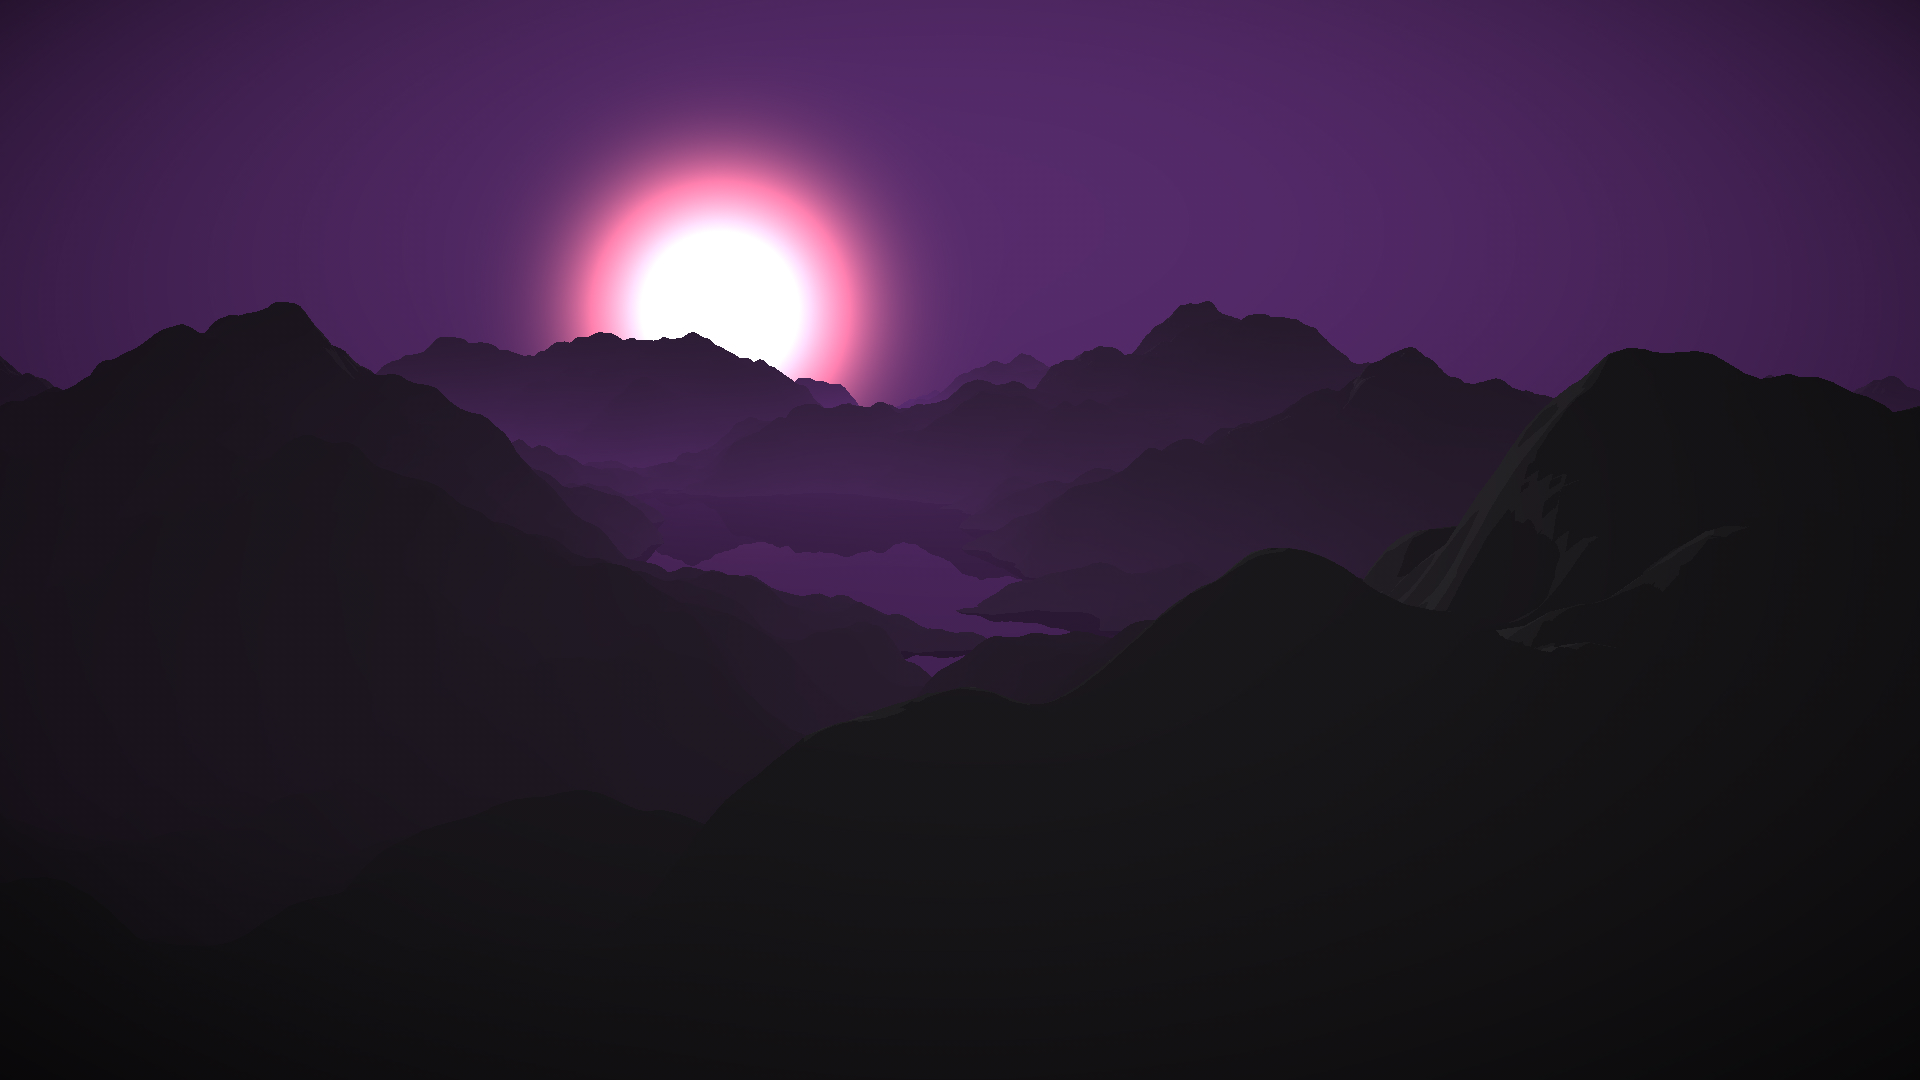
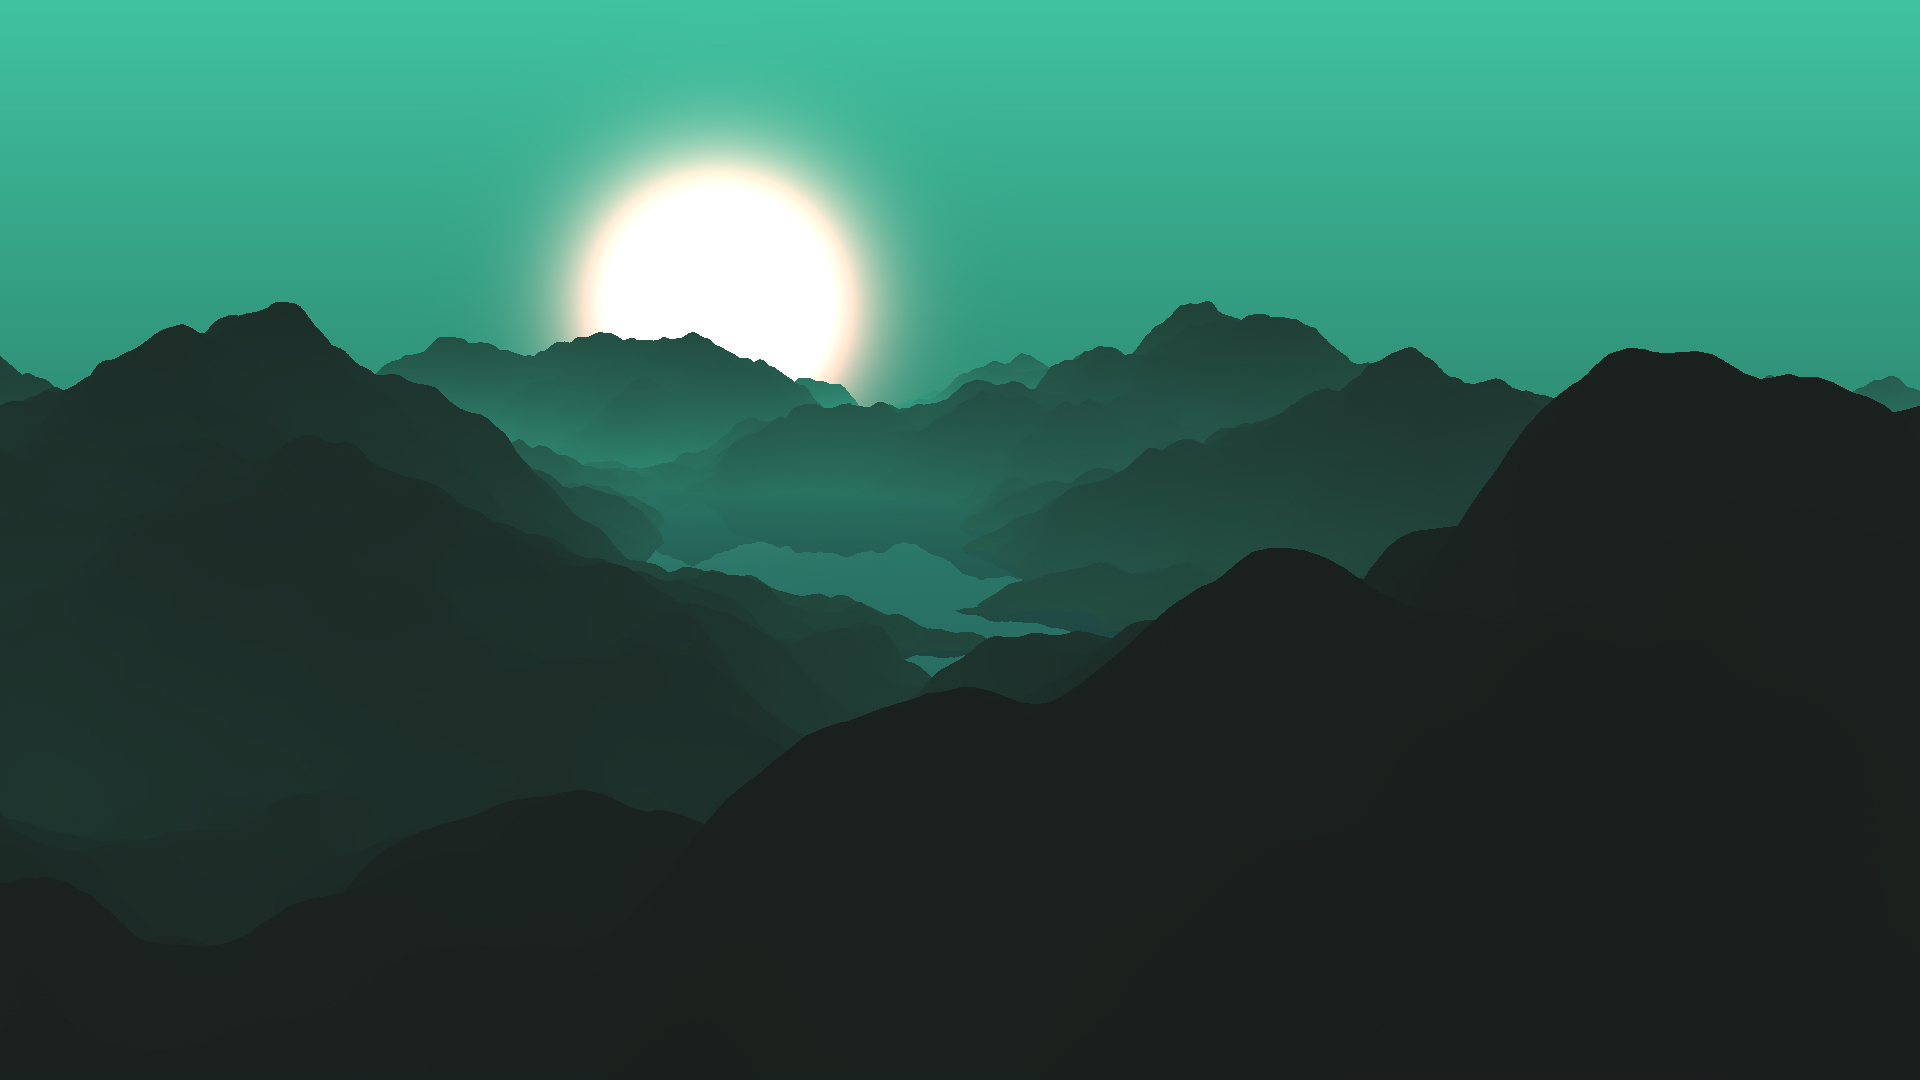
Change preview

diff --git a/src/world/World.cpp b/src/world/World.cpp
@@ -64,7 +64,7 @@ TraceResult World::trace(const Rayf& ray, const TraceParamter& parameter) const
 
                 // Lighting
                 Vec3f lightDirection = m_sky.getLightDirection();
-                Vec3f diffuseColor(0.4f);
+                Vec3f diffuseColor(0.1f, 0.1f, 0.1f);
                 Vec3f normal = m_heightmap.getNormalInterpolated(currentPosition.x, currentPosition.z);
                 float angle = normal.dot(lightDirection * -1.0f);
 
@@ -76,7 +76,7 @@ TraceResult World::trace(const Rayf& ray, const TraceParamter& parameter) const
                 // float light = CLAMP(angle * 8.0f, 0.0f, 1.0f);
                 light = light * 0.25f + 0.25f;
 
-                diffuseColor *= light;
+                //diffuseColor *= light;
 
                 // Apply fog
                 result.color = m_fog.applyFog(diffuseColor, m_sky, ray.origin, currentPosition);

diff --git a/src/world/sky/Sky.cpp b/src/world/sky/Sky.cpp
@@ -23,8 +23,8 @@ Vec3f Sky::getColor(const Vec3f& direction) const
 
 Vec3f Sky::getColor() const
 {
-    //return Vec3f(0.2f, 0.6f, 0.5f);
-    return Vec3f(0.4f, 0.2f, 0.5f);
+    return Vec3f(0.2f, 0.6f, 0.5f);
+    //return Vec3f(0.4f, 0.2f, 0.5f);
     //return Vec3f(0.5f, 0.6f, 0.9f);
     //return Vec3f(0.5f, 0.3f, 0.4f);
 }

diff --git a/src/main.cpp b/src/main.cpp
@@ -19,7 +19,7 @@ int main(int argc, char** argv)
     rayTracer.traceFullImage(image, camera, &world);
 
     VignetteEffect vignette;
-    vignette.apply(image);
+    //vignette.apply(image);
 
     NoiseDitheringEffect noiseDithering;
     noiseDithering.apply(image);

diff --git a/src/world/Water.cpp b/src/world/Water.cpp
@@ -19,5 +19,5 @@ Rayf Water::reflectRay(const Vec3f& position, const Vec3f& direction) const
 
 Vec3f Water::reflectColor(const Vec3f& color) const
 {
-    return color * 0.5f;
+    return (color + Vec3f(0.1f, 0.1f, 0.2f)) * Vec3f(0.4f, 0.4f, 0.4f);
 }
